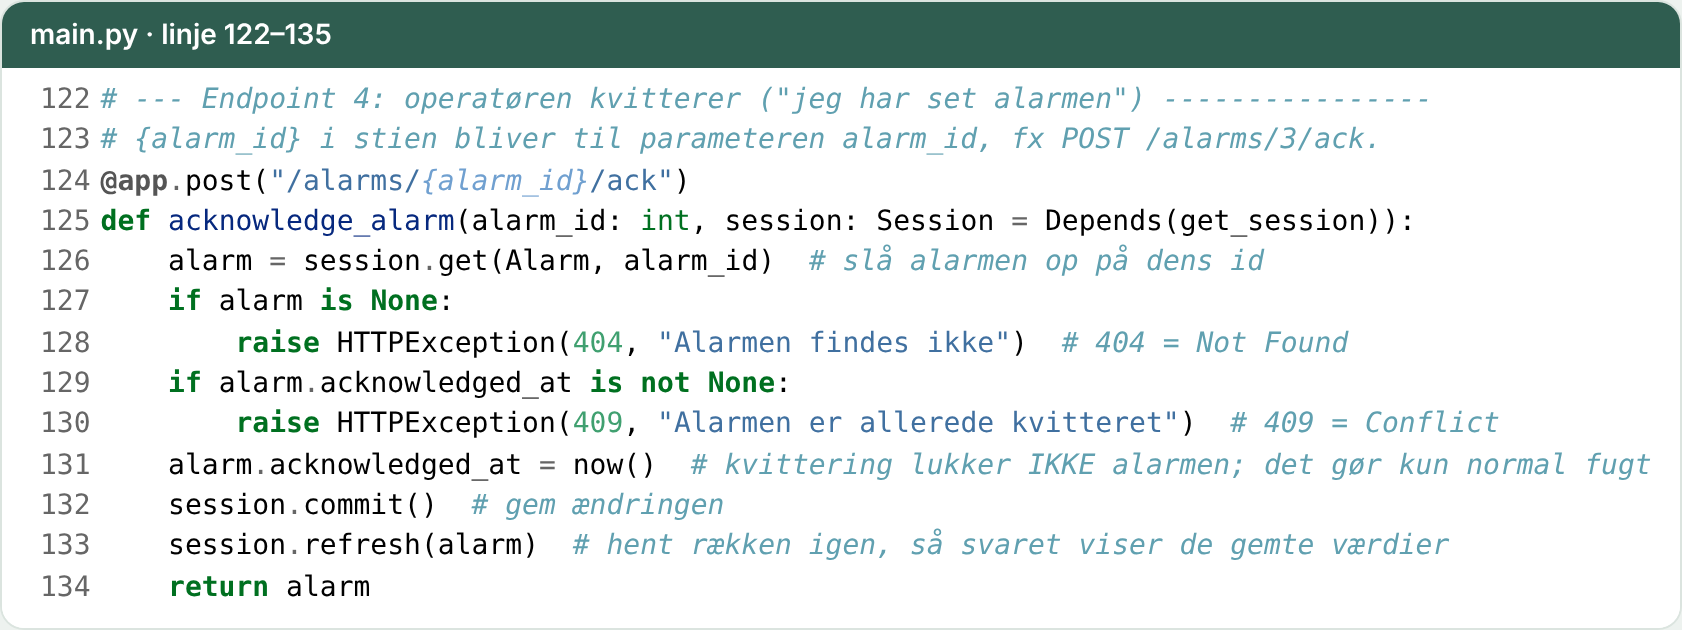
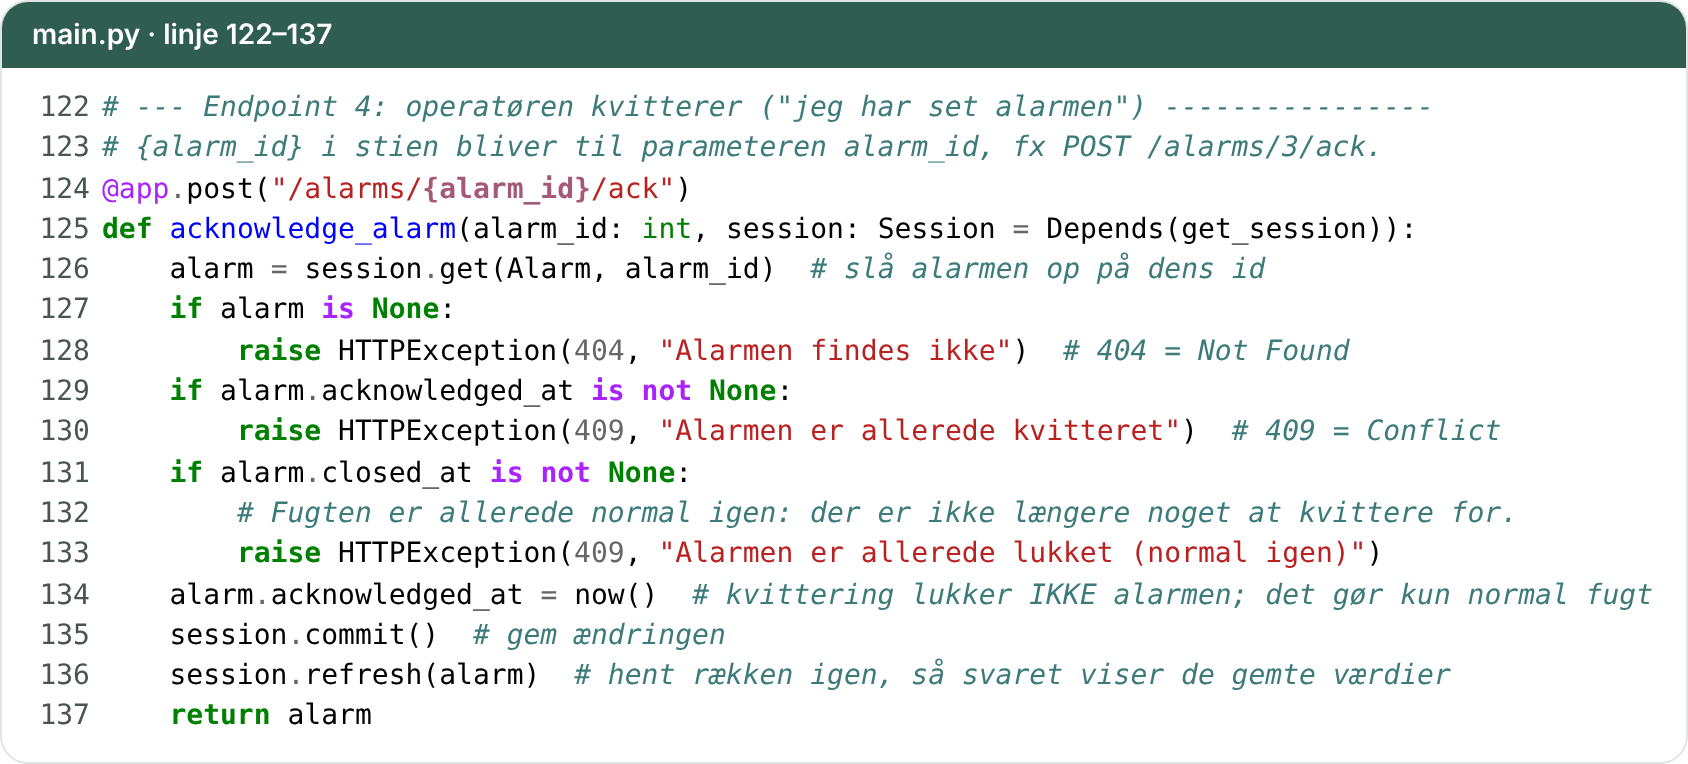
Skarpere tests og små rettelser efter good cop/bad cop-gennemgang
- Testene prøver nu begge sider af grænserne (54,9/55/60/60,1), validering (422),
  at kvittering ikke lukker alarmen, og at reglerne gælder pr. enhed.
  Stadig 5 tests: én pr. regel.
- POST /alarms/{id}/ack svarer 409, hvis alarmen allerede er lukket (normal igen).
- pi.py holder målingen på højst 100 %RH, så et pust ikke giver 422 og blå LED.
- docker-compose: databasens port 5432 er ikke længere åben mod netværket.
- Kodebilleder 04, 06, 08, 09 og diagram 2 og 6 tegnet om efter ændringerne.

Claude-Session: https://claude.ai/code/session_01VGe3eTfxrJUStdzba9gFSB

Changed region(s): [[0.0, 0.0302, 1.0, 0.9651]]

diff --git a/tests/test_mvp.py b/tests/test_mvp.py
@@ -4,8 +4,11 @@ Testene bruger en tom SQLite-database i hukommelsen, så de kører på et sekund
 og ikke kræver Docker. API'et kaldes præcis som Pi'en og Postman gør det.
 
 Hver test svarer til en regel (se docs/KRAV.md, "strategi -> regel -> test"):
-    1. farverne grøn/gul/rød      2. alarm over 60      3. ingen dublet-alarm
-    4. kvittering (404/409)       5. normalisering under 55
+    1. farverne grøn/gul/rød (+ validering)   2. alarm over 60   3. ingen dublet-alarm
+    4. kvittering (404/409)                   5. normalisering under 55
+
+Hver test prøver også grænsen lige ved siden af (fx 54,9 og 55), så en forkert
+ændring af reglerne får en test til at fejle.
 """
 
 import pytest  # testværktøjet
@@ -36,17 +39,22 @@ def client():
     app.dependency_overrides.clear()  # ryd op efter testen
 
 
-def send(client, humidity):
+def send(client, humidity, device_id="pi-01"):
     """Hjælper: send én måling, som Pi'en ville gøre, og returnér svaret som dict."""
-    return client.post("/measurements", json={"device_id": "pi-01", "humidity": humidity}).json()
+    return client.post("/measurements", json={"device_id": device_id, "humidity": humidity}).json()
 
 
-def test_1_green_yellow_red():
-    # Reglen alene, uden API og database. Grænseværdierne 55 og 60 testes præcist.
+def test_1_green_yellow_red(client):
+    # Reglen alene, uden API og database. Begge sider af grænserne 55 og 60 testes.
     assert rules.status(48) == "green"
-    assert rules.status(55) == "yellow"
-    assert rules.status(60) == "yellow"
-    assert rules.status(60.1) == "red"
+    assert rules.status(54.9) == "green"  # lige under 55: stadig grøn
+    assert rules.status(55) == "yellow"  # præcis 55: gul
+    assert rules.status(60) == "yellow"  # præcis 60: stadig gul
+    assert rules.status(60.1) == "red"  # lige over 60: rød
+    # Validering: tal uden for 0-100 %RH afvises med 422, og intet gemmes.
+    assert client.post("/measurements", json={"humidity": 150}).status_code == 422
+    assert client.post("/measurements", json={"humidity": -5}).status_code == 422
+    assert client.get("/measurements").json() == []
 
 
 def test_2_alarm_created_over_60(client):
@@ -54,6 +62,10 @@ def test_2_alarm_created_over_60(client):
     assert send(client, 62) == {"status": "red", "alarm_open": True}
     alarms = client.get("/alarms").json()
     assert len(alarms) == 1 and alarms[0]["humidity"] == 62
+    # Målingen, der udløste alarmen, er gemt sammen med den (samme transaktion).
+    assert client.get("/measurements").json()[0]["status"] == "red"
+    # Præcis 60 er kun gul og må ikke give en alarm (en anden Pi, så den starter uden alarm).
+    assert send(client, 60, "pi-02") == {"status": "yellow", "alarm_open": False}
 
 
 def test_3_no_duplicate_alarm(client):
@@ -61,20 +73,31 @@ def test_3_no_duplicate_alarm(client):
     for value in (62, 65, 61):
         send(client, value)
     assert len(client.get("/alarms").json()) == 1
+    # "Ingen dublet" gælder pr. enhed: en anden Pi får sin egen alarm.
+    assert send(client, 70, "pi-02")["alarm_open"] is True
+    assert len(client.get("/alarms").json()) == 2
 
 
 def test_4_acknowledge(client):
     # Kvittering virker én gang. Anden gang: 409. Ukendt alarm: 404.
     send(client, 62)
     alarm_id = client.get("/alarms").json()[0]["id"]
-    assert client.post(f"/alarms/{alarm_id}/ack").json()["acknowledged_at"] is not None
+    acknowledged = client.post(f"/alarms/{alarm_id}/ack").json()
+    assert acknowledged["acknowledged_at"] is not None
+    assert acknowledged["closed_at"] is None  # kvittering lukker IKKE alarmen
     assert client.post(f"/alarms/{alarm_id}/ack").status_code == 409  # ikke to gange
     assert client.post("/alarms/999/ack").status_code == 404
+    # En alarm, der er lukket uden kvittering, kan ikke kvitteres bagefter (409).
+    send(client, 70, "pi-02")
+    send(client, 50, "pi-02")
+    closed_id = client.get("/alarms").json()[0]["id"]
+    assert client.post(f"/alarms/{closed_id}/ack").status_code == 409
 
 
 def test_5_normalization_under_55(client):
-    # Gul (57) lukker ikke alarmen; først grøn (50) lukker den (hysterese).
+    # Gul (57) og præcis 55 lukker ikke alarmen; først under 55 lukker den (hysterese).
     send(client, 62)
     assert send(client, 57)["alarm_open"] is True  # gul: alarmen er stadig åben
-    assert send(client, 50) == {"status": "green", "alarm_open": False}
+    assert send(client, 55)["alarm_open"] is True  # præcis 55 er ikke "under 55"
+    assert send(client, 54.9) == {"status": "green", "alarm_open": False}
     assert client.get("/alarms").json()[0]["closed_at"] is not None

diff --git a/main.py b/main.py
@@ -14,7 +14,7 @@ Endpoints:
     POST /measurements          modtag en måling fra Pi'en
     GET  /measurements          de seneste målinger (til kontrolcentret)
     GET  /alarms                de seneste alarmer
-    POST /alarms/{id}/ack       operatøren kvitterer for en alarm
+    POST /alarms/{id}/ack       operatøren kvitterer for en åben alarm
     GET  /                      kontrolcentret (static/index.html)
     GET  /docs                  Swagger: automatisk API-dokumentation fra FastAPI
 
@@ -128,6 +128,9 @@ def acknowledge_alarm(alarm_id: int, session: Session = Depends(get_session)):
         raise HTTPException(404, "Alarmen findes ikke")  # 404 = Not Found
     if alarm.acknowledged_at is not None:
         raise HTTPException(409, "Alarmen er allerede kvitteret")  # 409 = Conflict
+    if alarm.closed_at is not None:
+        # Fugten er allerede normal igen: der er ikke længere noget at kvittere for.
+        raise HTTPException(409, "Alarmen er allerede lukket (normal igen)")
     alarm.acknowledged_at = now()  # kvittering lukker IKKE alarmen; det gør kun normal fugt
     session.commit()  # gem ændringen
     session.refresh(alarm)  # hent rækken igen, så svaret viser de gemte værdier

diff --git a/pi/pi.py b/pi/pi.py
@@ -32,7 +32,9 @@ sense = SenseHat()  # forbindelsen til Sense HAT'ens sensorer og LED-display
 
 while True:  # kør for evigt (stop med Ctrl+C)
     # 1. Læs fugten, og afrund til én decimal (fx 48.237... -> 48.2).
-    humidity = round(sense.get_humidity(), 1)
+    #    Sensoren kan vise lidt over 100, når man puster direkte på den. API'et
+    #    godtager kun 0-100 %RH, så min(..., 100.0) holder værdien inden for det gyldige.
+    humidity = min(round(sense.get_humidity(), 1), 100.0)
     try:
         # 2. Send målingen som JSON. timeout=5: giv op efter 5 sekunder uden svar.
         response = requests.post(
